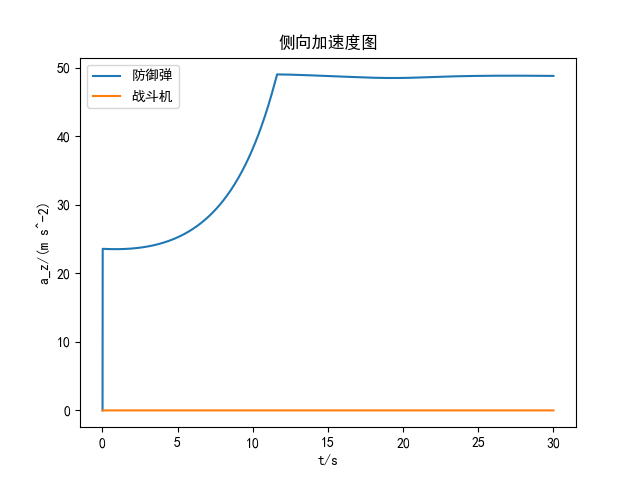
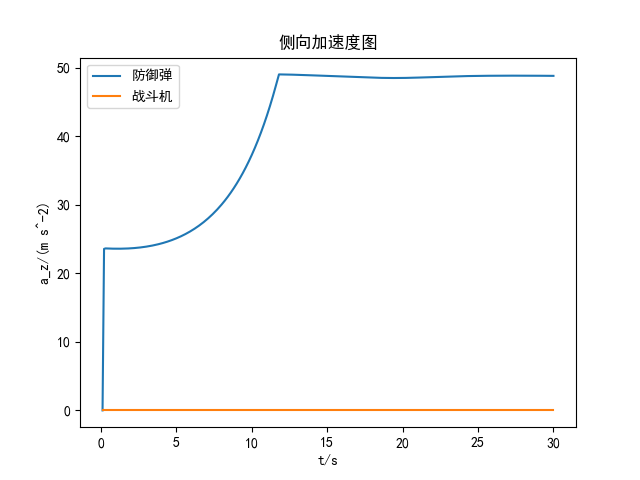
终于tmd修好了

diff --git a/MyEnvs.py b/MyEnvs.py
@@ -73,10 +73,13 @@ class relative:
 
     def calculate_relative_state(self):
         # 计算相对状态量
-        self.r = np.linalg.norm(self.target.position - self.chaser.position)
-        self.r_0 = self.r
-        self.q_y = arcsin((self.target.position[1] - self.chaser.position[1]) / self.r)
-        self.q_z = arccos((self.target.position[0] - self.chaser.position[0]) / (np.linalg.norm(np.array([self.target.position[0] - self.chaser.position[0] , self.target.position[2] - self.chaser.position[2]])))) 
+        r = self.target.position - self.chaser.position
+        self.r = np.linalg.norm(r)
+        self.q_y = arcsin(r[1] / self.r)
+        self.q_z = arccos(r[0] / (np.linalg.norm(np.array([r[0] , r[2]]))))
+        if r[2] > 0:
+            self.q_z = -self.q_z
+         
 
 
 
@@ -663,11 +666,15 @@ class FighterEnv_nopolicy_2D(FighterEnv_2D):
         while self.FD.r > R_DAM and self.FT.r > 5000 and self.t < 30: # 不进行突防仿真
             
 
-            self.FT.proportional_navigation()
-            self.FD.proportional_navigation()          
+                     
             
-            self.FD.simulate(self.dt)
+            
             self.FT.simulate(self.dt)
+
+            self.FT.proportional_navigation()
+
+            self.FD.simulate(self.dt)
+            self.FD.proportional_navigation() 
              
             
             

diff --git a/no-policy.py b/no-policy.py
@@ -5,7 +5,7 @@ import matplotlib.pyplot as plt
 plt.rcParams['font.sans-serif'] = ['SimHei']  # 指定默认字体
 plt.rcParams['axes.unicode_minus'] = False  # 解决保存图像时负号'-'显示为方块的问题
 
-myenv = FighterEnv_nopolicy(True , dt=0.01 ,Dt = 0.01)
+myenv = FighterEnv_nopolicy(True , dt=0.1 ,Dt = 0.1)
 
 
 
